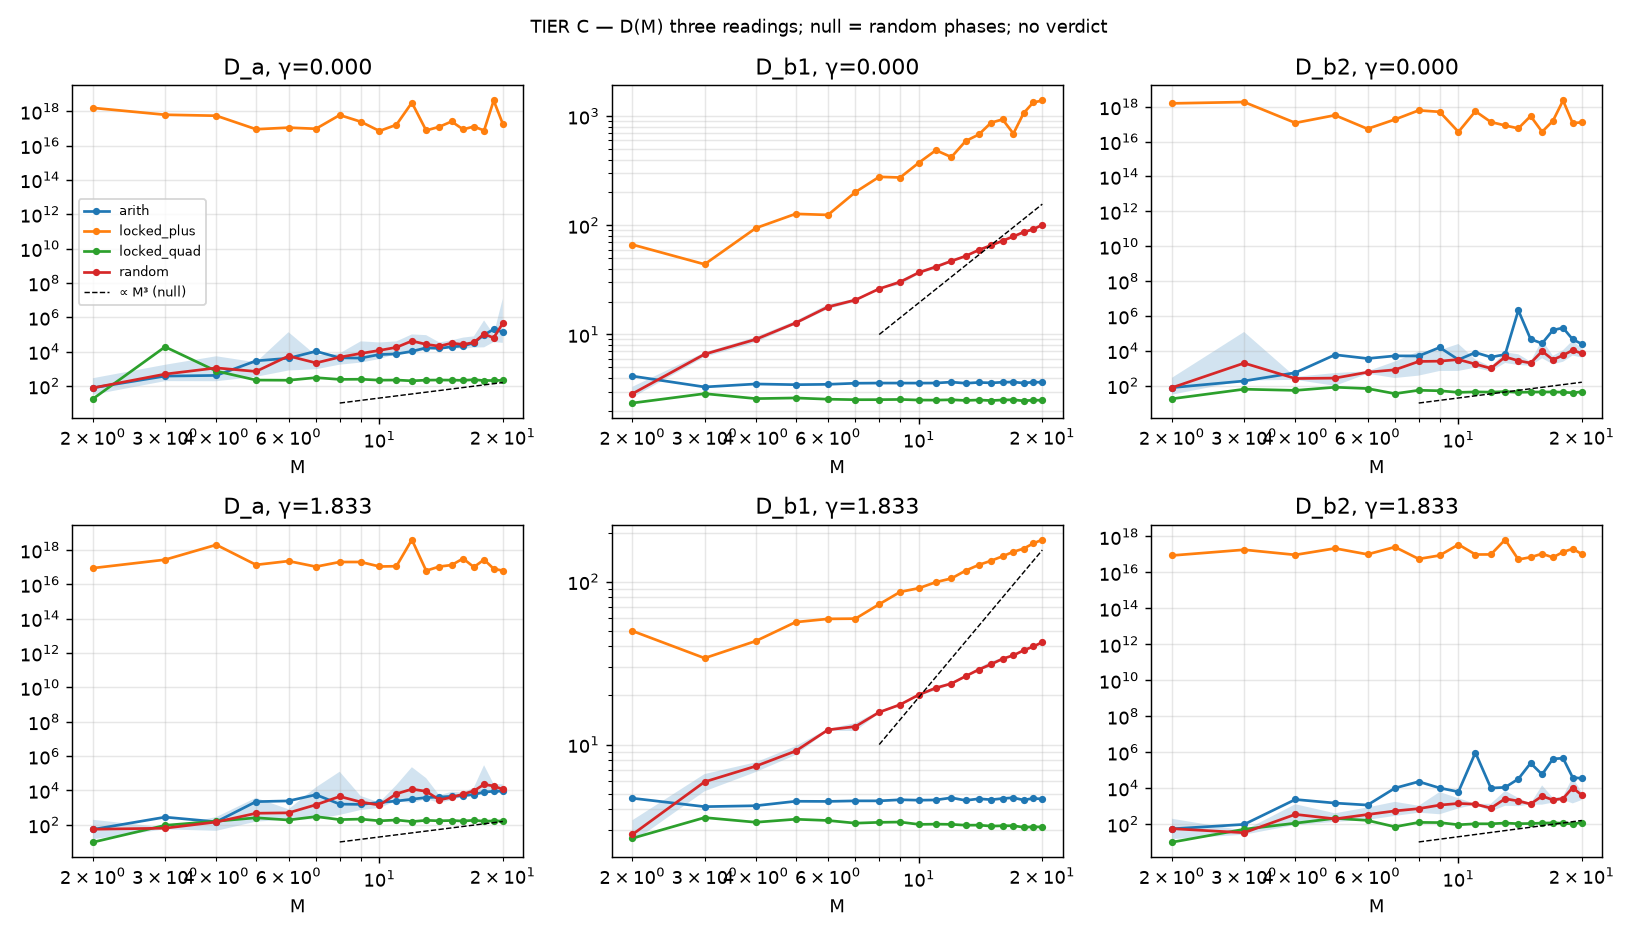
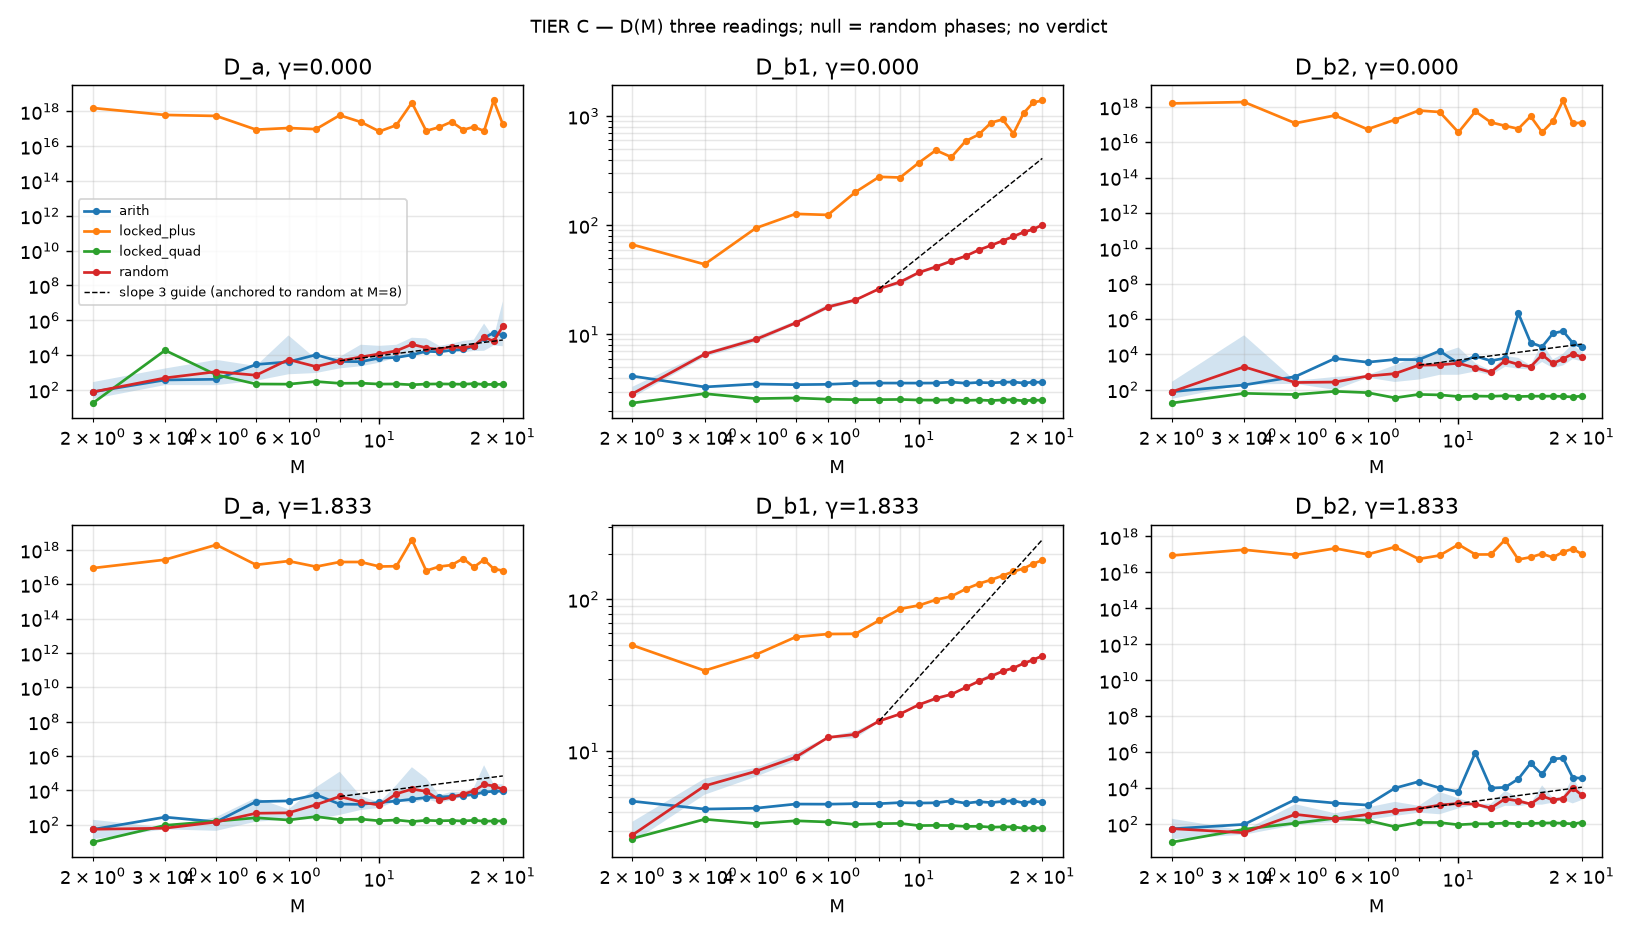
Clean four real errors in this session's own artifacts
1. Factor-2 imprecision in the LeanFlow review and its LEDGER row: the a
   priori enstrophy bound for a 20-shell truncation is Omega <= kappa_N^2 * E,
   not kappa_N^2 * 2E. The conclusion is unchanged (2.7e11*E still dwarfs the
   1e6 threshold) but the bound is now stated correctly, with its derivation.
2. Dead code in the plot script: a reference curve was computed and never used.
3. Misleading guide line: the M^3 curve was drawn with an arbitrary vertical
   offset (x10) and labelled '(null)'. The null model IS the random-phase
   series, already plotted. The guide is now anchored to that series at M=8
   and labelled as a slope guide, so no one can eyeball an agreement that is
   not there.
4. The .meta sidecar recorded session-scratchpad paths, making its generating
   command unrunnable. It now carries repo-relative reproduction commands
   (generate, analyse, controls-only), states why the run is deterministic
   regardless of thread count, and records that the committed crate is
   byte-identical to the one that produced the data (sha256 b6ef59c2...).
   The PNG is explicitly not hashed: matplotlib output is not byte-reproducible.

Data unchanged: dm_readings.csv d090dcf9..., dm_waleffe.csv 77facb13... both
still match the sidecar.

NOT done, and it needs an owner decision: the false subject line of d980c18
cannot be cleaned locally. That commit is ALREADY PUSHED -- origin/master
points at it -- so rewriting it means a force-push to a public repository,
[…]

diff --git a/exploration/triad_frustration_plot.py b/exploration/triad_frustration_plot.py
@@ -77,15 +77,24 @@ def main(out_dir):
     for i, gamma in enumerate(gammas):
         for j, key in enumerate(readings):
             ax = axes[i][j]
+            anchor = None   # value of the RANDOM series at M = MFIT, used to place the guide line
+            m_max = MFIT
             for (gm, field, k), (Ms, ys, lo, hi) in series.items():
                 if gm != gamma or k != key:
                     continue
                 ax.plot(Ms, ys, marker="o", ms=3, label=field)
+                m_max = max(m_max, max(Ms))
                 if field == "random":
                     ax.fill_between(Ms, lo, hi, alpha=0.2)
-            xs = [M for M in range(MFIT, max(Ms) + 1)]
-            ref = [ys[0] * (x / Ms[0]) ** 3 for x in xs] if ys and ys[0] > 0 else None
-            ax.plot(xs, [(x / MFIT) ** 3 * 10 for x in xs], "k--", lw=0.8, label="∝ M³ (null)")
+                    # anchor the guide to the null model itself, not to an arbitrary offset:
+                    # a slope guide placed by hand invites eyeballing an agreement that is not there.
+                    for M, y in zip(Ms, ys):
+                        if M == MFIT and y > 0 and math.isfinite(y):
+                            anchor = y
+            if anchor is not None:
+                xs = list(range(MFIT, m_max + 1))
+                ax.plot(xs, [anchor * (x / MFIT) ** 3 for x in xs], "k--", lw=0.8,
+                        label="slope 3 guide (anchored to random at M=%d)" % MFIT)
             ax.set_xscale("log"); ax.set_yscale("log")
             ax.set_title(f"{key}, γ={gamma:.3f}"); ax.set_xlabel("M"); ax.grid(True, which="both", alpha=0.3)
             if i == 0 and j == 0:

diff --git a/LEDGER.md b/LEDGER.md
@@ -525,7 +525,7 @@ evidence in any case (LL-2).
 |---|---|---|
 | **The Beltrami attractor is imposed, not emergent.** A term `− wall_factor · u⁻` (strength up to 16) damps the negative-helicity amplitudes whenever `α′ > 0`; the reported alignment `\|Σκ(u₊²−u₋²)\|/Σκ(u₊²+u₋²)` tends to 1 identically as `u⁻ → 0`. The Lamb norm is then *derived from* that alignment, not from `u × ω` | the conclusion is an input | LL-11 (no null model) |
 | **`𝒟` diverges as 0/0.** `compute_frustration_index_from_transfers` returns `INFINITY` when `\|Σ T\| < 1e-12` **without testing `Σ\|T\|`**; a frozen flow therefore scores maximal frustration | "explosion of 𝒟 at the wall" is satisfiable by the flow stopping | LL-19 / LL-18 — this session hit the identical artifact and added a liveness guard |
-| **The "blow-up" is a cascade into a truncation.** 20 shells, `κ_N = 2¹⁹`, so enstrophy is bounded by `κ_N²·2E ≈ 2.7e11·E`; the `×1e6` threshold is crossed with no singularity. No shell profile and no cutoff flux `F_N` recorded (the D6 memo requires both) | detector cannot separate physics from grid exhaustion | LL-18, D5/D6 |
+| **The "blow-up" is a cascade into a truncation.** 20 shells, `κ_N = 2¹⁹`, so enstrophy obeys `Ω ≤ κ_N²·E ≈ 2.7e11·E`; the `×1e6` threshold is crossed with no singularity. No shell profile and no cutoff flux `F_N` recorded (the D6 memo requires both) | detector cannot separate physics from grid exhaustion | LL-18, D5/D6 |
 | **The `α′ = 0` run does not conserve energy.** Homochiral transfers telescope correctly, but the added cross term contributes `Σ cross_n(u_n⁻ − u_n⁺) ≠ 0` | an unforced inviscid model with an energy source is not an Euler surrogate | — |
 | **Internal inconsistency:** the test asserts `t* < 0.3`; the register reported `t ≈ 0.38–0.40` | both cannot describe the same passing run | — |
 | **Two different "T-dual metrics" in one crate:** `r_eff = max(R, α/R)` (**matches our Tier A `Reff` exactly** — adopted as an independent cross-check) versus `k_eff = k/(1+α′k²)`, which is *not* the Fourier image of `Reff` (that would be `min(k, 1/(α′k))`) | no `Reff` theorem transfers to `k_eff` without proof | SPEC §1.2 (OP-1 is open) |

diff --git a/docs/proposals/2026-09-10-leanflow-counterdetonation-review.md b/docs/proposals/2026-09-10-leanflow-counterdetonation-review.md
@@ -79,9 +79,9 @@ Until then, `max_frustration_index > 100.0` in the test is satisfiable by the fl
 The calibration run is a **20-shell helical dyadic model**, not the Euler equations. Blow-up is
 declared when enstrophy exceeds `initial_enstrophy × 1e6`.
 
-In a truncation at `N = 20` shells with `κₙ = 2ⁿ`, enstrophy is bounded a priori by
-`κ_N² · 2E ≈ 2.7 × 10¹¹ · E`. Energy merely reaching the upper shells therefore crosses a `10⁶`
-threshold **with no singularity anywhere**. The detector cannot separate "finite-time blow-up" from
+In a truncation at `N = 20` shells with `κₙ = 2ⁿ` (so `κ_N = 2¹⁹`), enstrophy obeys the a priori
+bound `Ω = ½Σκₙ²(uₙ₊² + uₙ₋²) ≤ ½κ_N²·2E = κ_N²·E ≈ 2.7 × 10¹¹ · E`. Energy merely reaching the
+upper shells therefore crosses a `10⁶` threshold **with no singularity anywhere**. The detector cannot separate "finite-time blow-up" from
 "the cascade arrived at the cutoff", which is the exact defect this programme documented in D5/D6
 and mechanised as `StopReason`/`Aggregate` in `tests/controls.py` (LL-18). The published D6 design
 memo requires the shell-population profile and the cutoff flux `F_N` to be reported with every run
